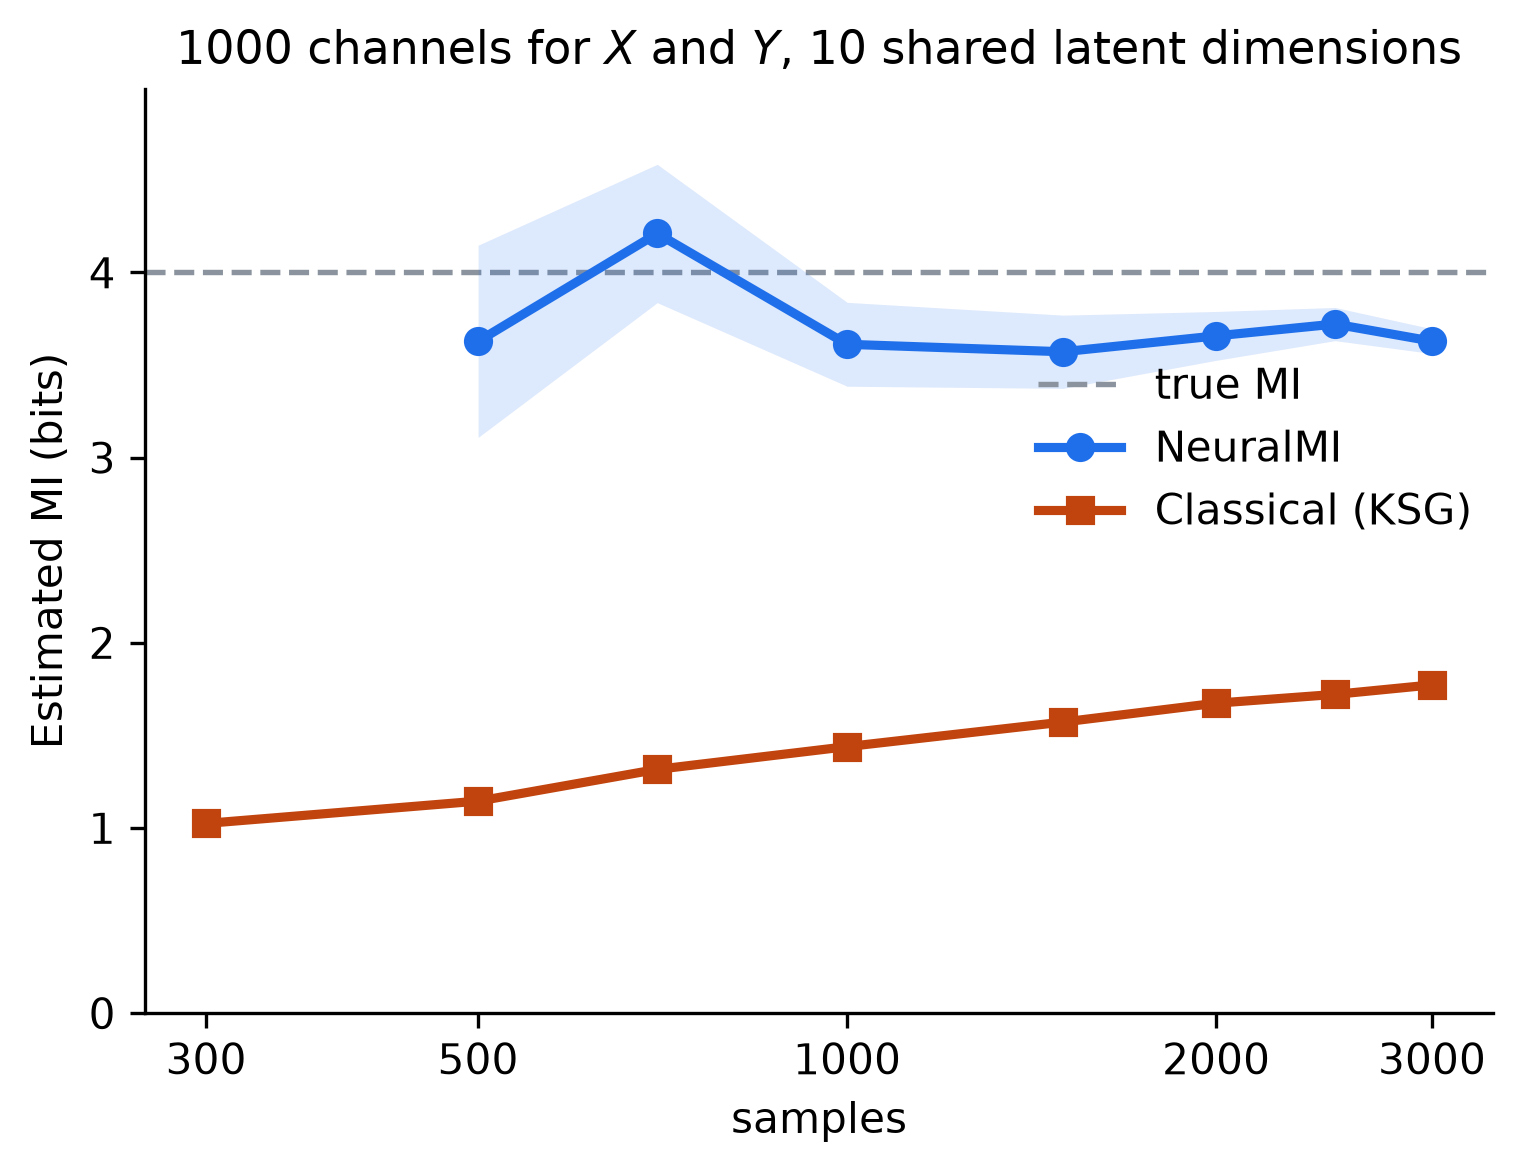
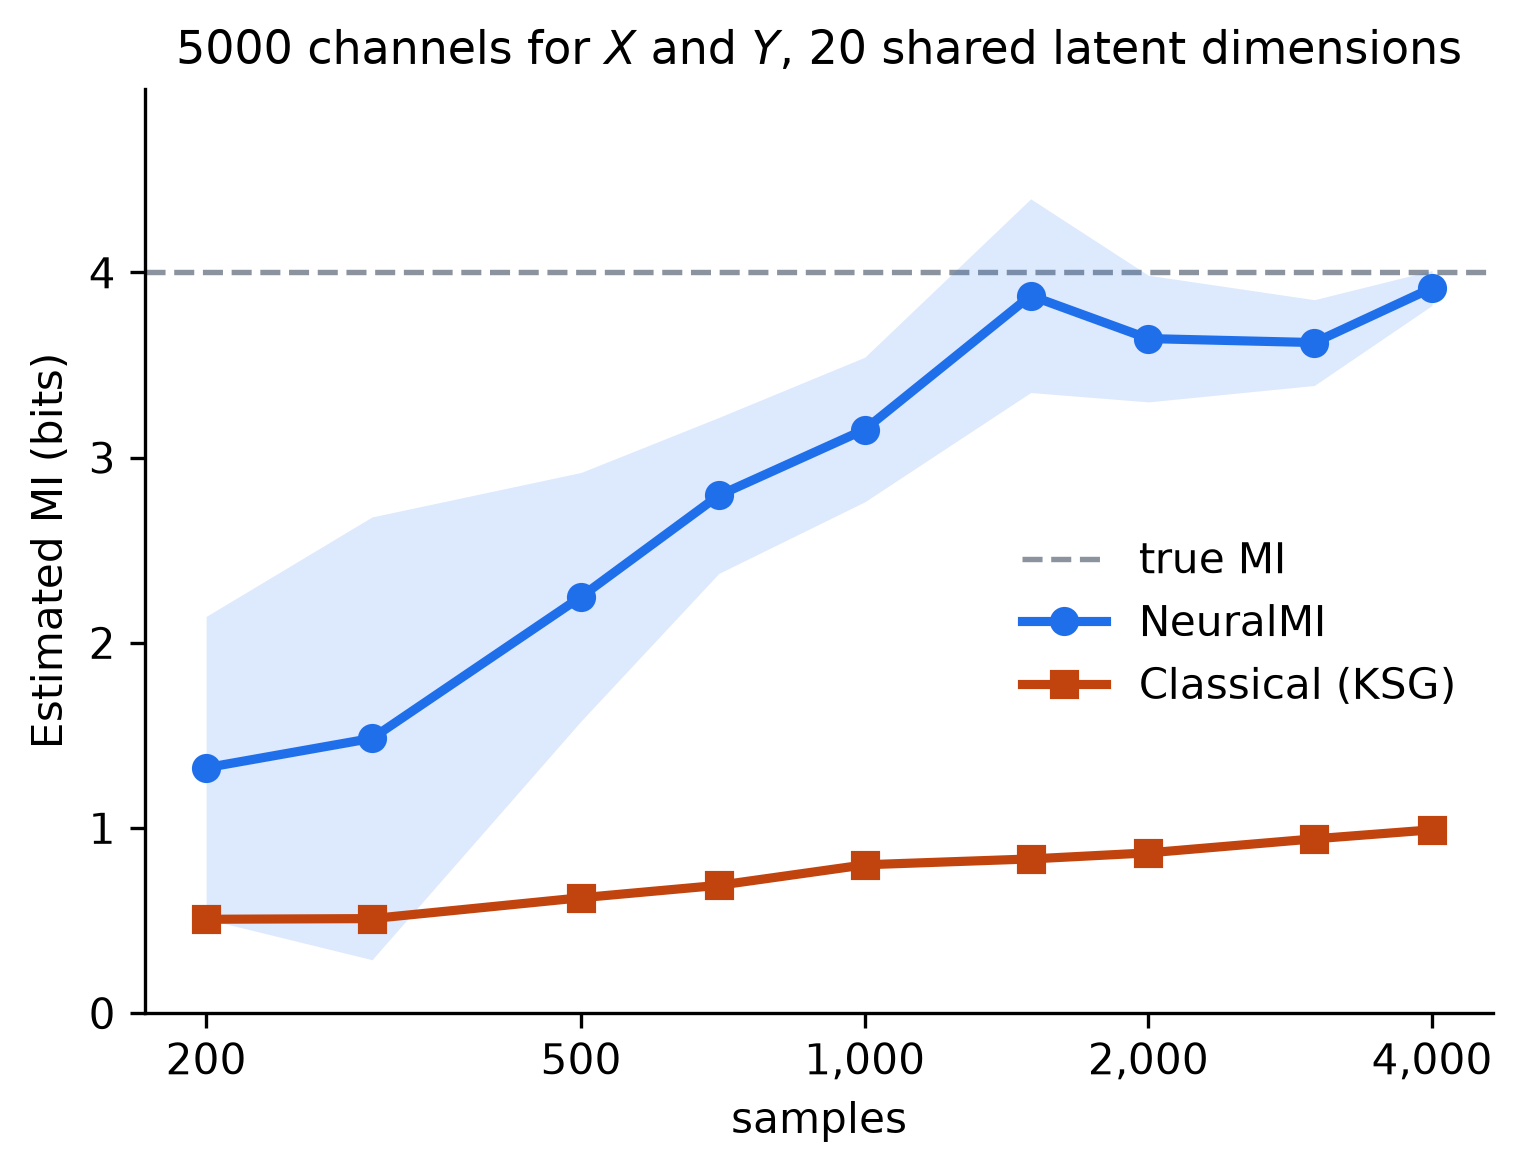
The README's sample-size figure: fewer samples than channels, KSG flat
The old figure showed ten shared dimensions in a thousand channels per side,
read by mode='rigorous' with a network of its own, and KSG climbed steadily
with the samples, as if more data would close the gap. Prototypes of six
designs (in the session, not here) chose twenty shared dimensions carrying
four bits in five thousand channels per side: NeuralMI on its defaults,
without bias correction and repeated five times on the same data, climbs to
the true value with fewer samples than channels, and KSG stays at a fraction
of it across a twentyfold range of samples.

- docs/figures/readme_figures.ipynb section 2 draws it, run here with a
  fresh sweep. Every cell ran; the quickstart and ANATOMY checks still hold,
  and the other four figures came out unchanged.
- The README's alt text and the docs' landing page describe it
  qualitatively.

diff --git a/README.md b/README.md
@@ -16,7 +16,7 @@ Correlation is the usual way to ask whether two signals are related or not. Howe
 
 Mutual information sees that relationship because it captures linear and nonlinear dependencies alike. It also answers questions a correlation has no form for: how much a population's past says about its own future, what one area adds about another beyond what that area already predicts of itself, or what a pair of signals carries that neither carries alone.
 
-<img src="docs/source/_static/sample_sweep.png" alt="Estimate against sample count at 1000 channels per side: NeuralMI stays close to the true 4 bits wherever it reports a value, KSG stays far below it" style="float: right; max-width: 50%; margin-right: 15px; margin-bottom: 10px;">
+<img src="docs/source/_static/sample_sweep.png" alt="Estimate against sample count at 5000 channels per side: NeuralMI climbs to the true 4 bits with fewer samples than channels, KSG stays far below it and barely moves" style="float: right; max-width: 50%; margin-right: 15px; margin-bottom: 10px;">
 
 
 The obstacle to applying information-theoretic measures to large, multimodal neuroscience datasets is the curse of dimensionality. Classical estimators need samples in proportion to the dimensions they are handed. Past ~10 dimensions they outrun any recording of realistic size. Information-theoretic analysis has mostly been limited to a handful of channels for that reason.

diff --git a/docs/source/index.rst b/docs/source/index.rst
@@ -12,13 +12,14 @@ Classical estimators need samples in proportion to the dimensions they are hande
 arrived on.
 
 .. image:: _static/sample_sweep.png
-   :alt: Estimate against sample count at 1000 channels per side
+   :alt: Estimate against sample count at 5000 channels per side
    :align: center
    :width: 78%
 
-Both sides above are a thousand channels wide and share ten latent dimensions
-carrying exactly four bits. NeuralMI reads close to the four bits wherever it
-reports a value. KSG on the same data stays far below them at every sample size.
+Both sides above are five thousand channels wide and share twenty latent
+dimensions carrying exactly four bits. NeuralMI climbs to the four bits with
+fewer samples than channels. KSG on the same data stays far below them and
+barely moves as the samples grow.
 
 Every analysis goes through the one function ``nmi.run()`` with a ``mode`` that
 selects the quantity.

diff --git a/CHANGELOG.md b/CHANGELOG.md
@@ -186,6 +186,14 @@ Versioning](https://semver.org/spec/v2.0.0.html).
   tutorial 05 cap on the evaluation group that shows InfoNCE's ceiling, the
   smaller batches of its smallest samples, the full training curve of tutorial
   02, and ANATOMY's call that repeats the settings of its hand-written loop.
+- The README's sample-size figure showed ten shared dimensions in a thousand
+  channels per side, read by `mode='rigorous'` with a network of its own. KSG
+  climbed steadily with the samples there, as if more data would close the
+  gap. The figure now shows twenty shared dimensions in five thousand channels
+  per side, read by NeuralMI on its defaults without bias correction and
+  repeated on the same data. NeuralMI climbs to the true value with fewer
+  samples than channels, and KSG stays far below it and barely moves. The
+  README and the docs' landing page describe it that way.
 
 ### Removed
 
